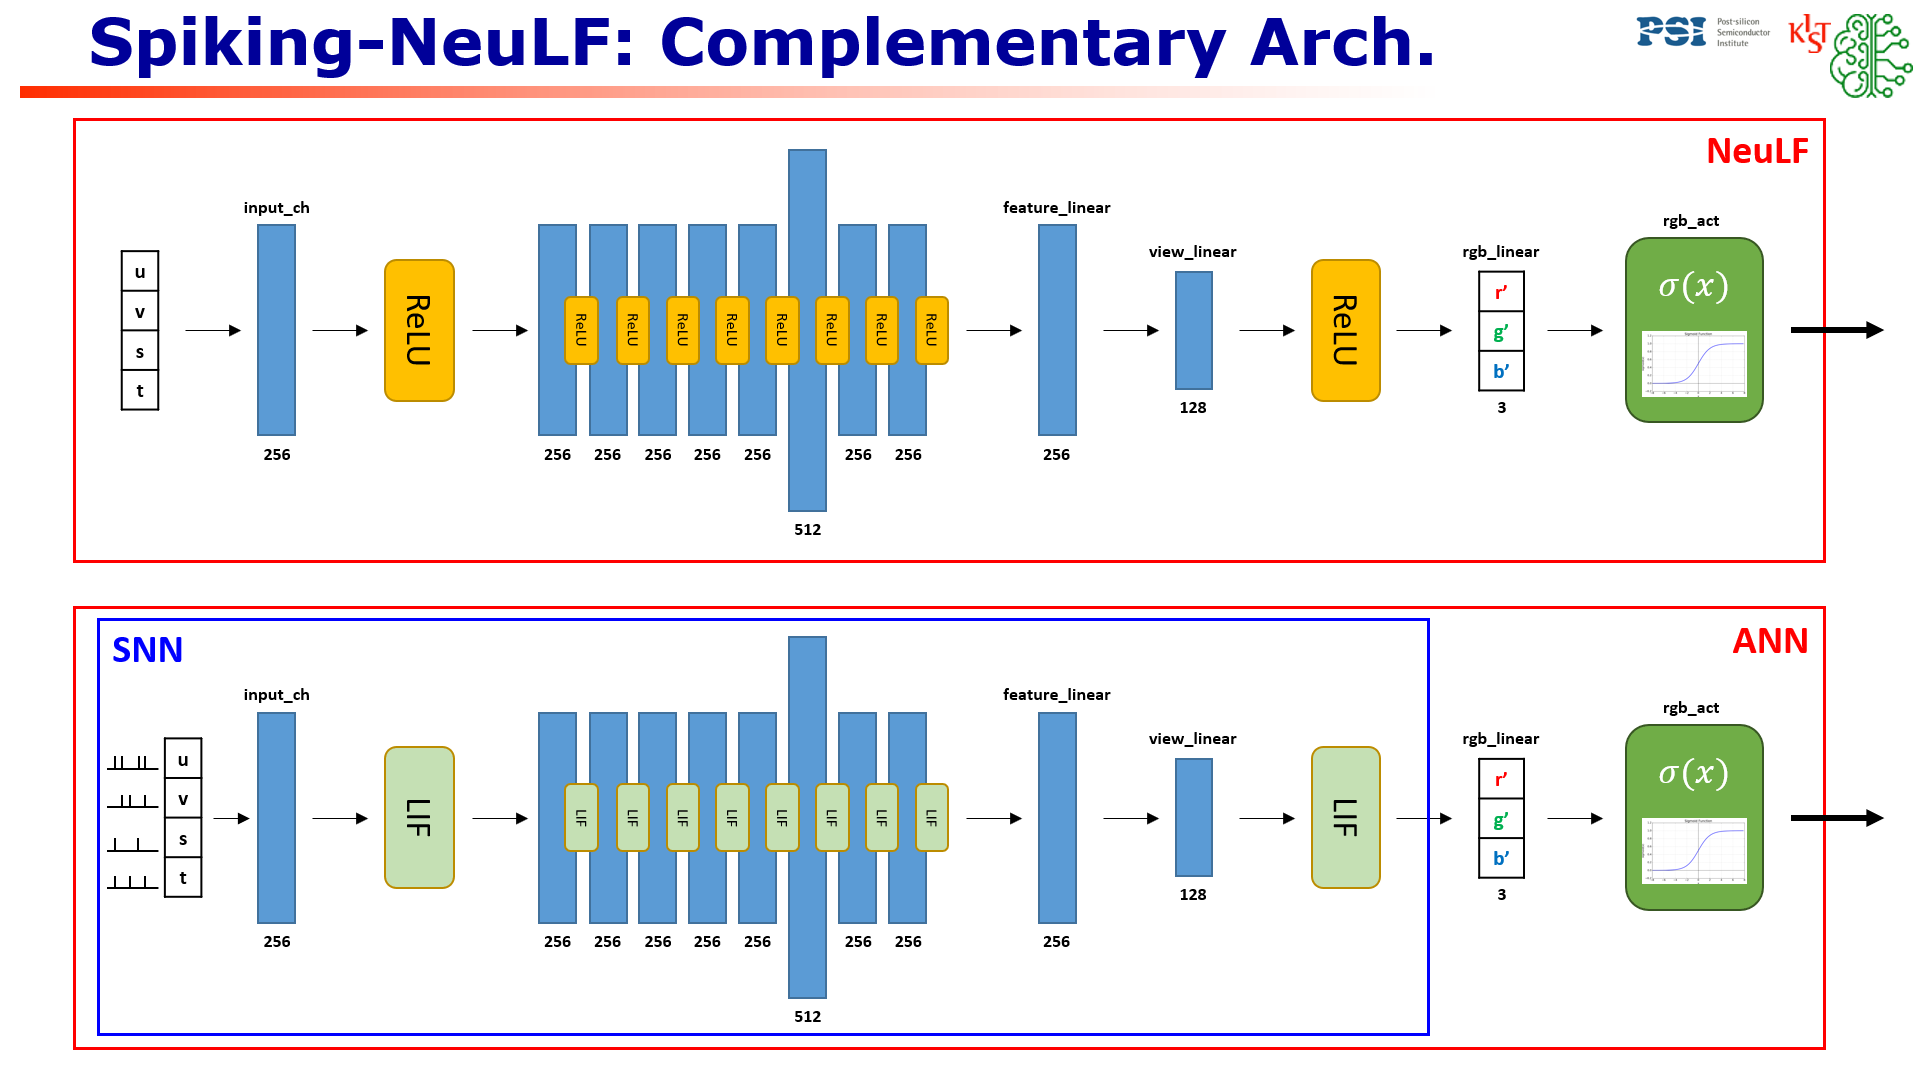
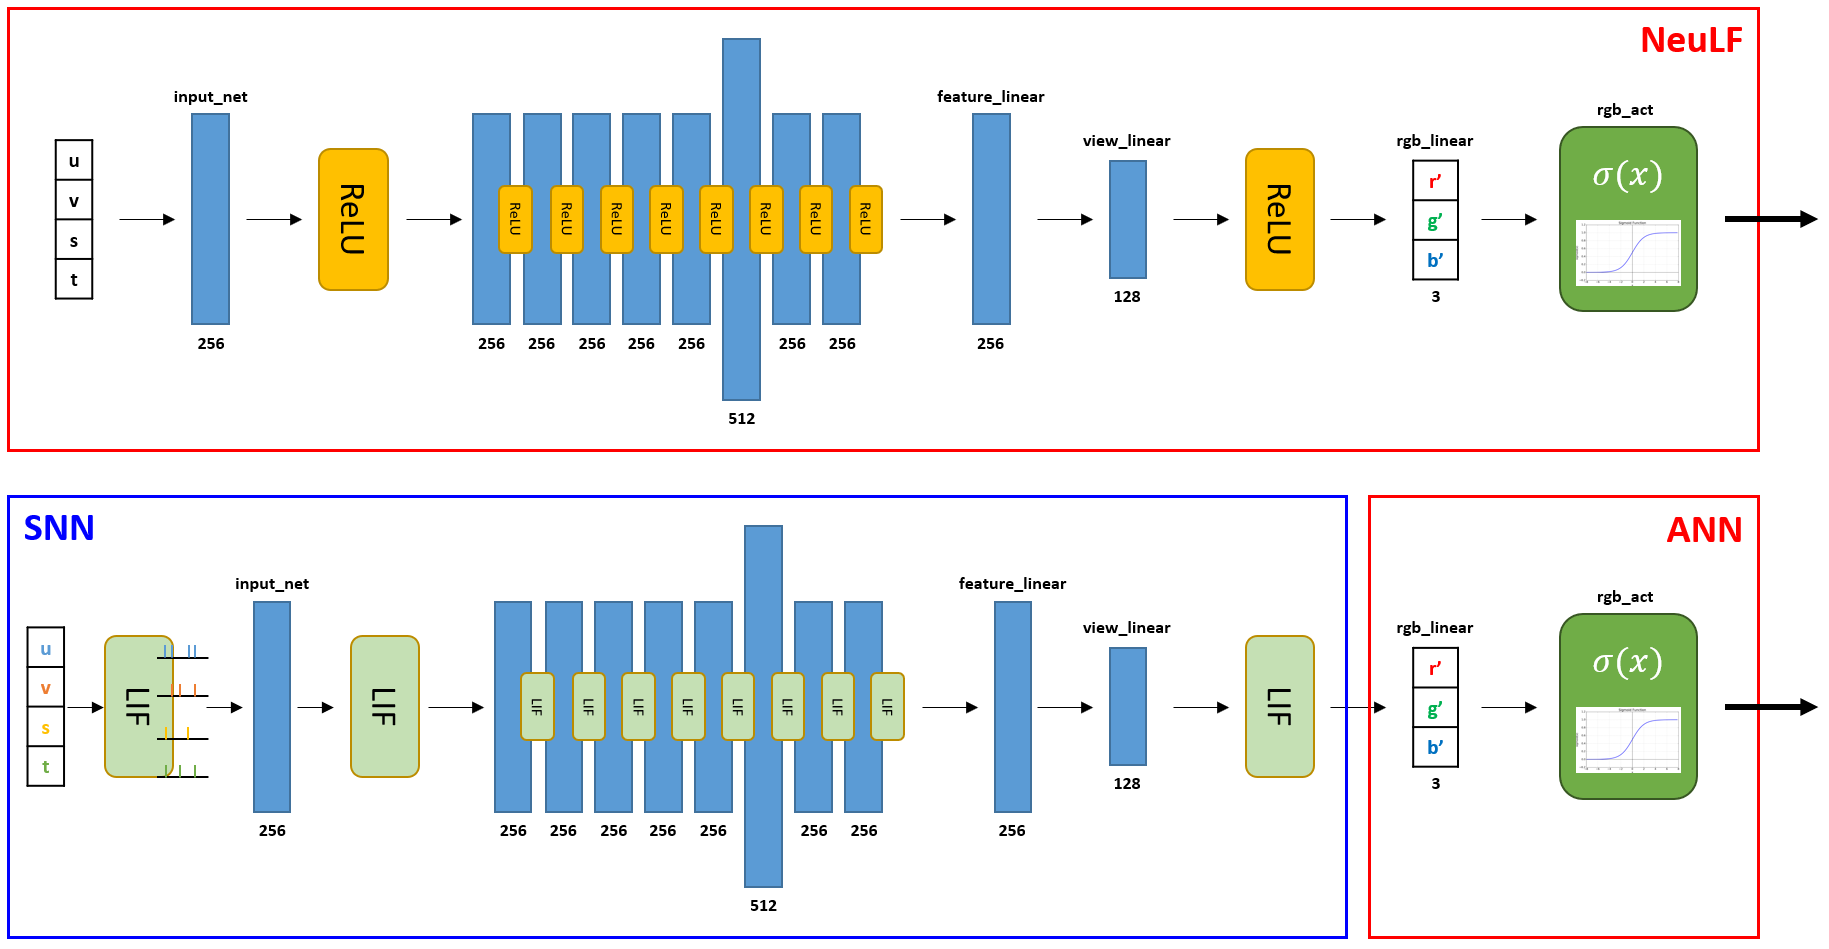
Arranging files

Changed region(s): [[0.0, 0.0, 0.9973, 1.0]]

diff --git a/README.md b/README.md
@@ -1,12 +1,13 @@
 # Spiking-NeuLF: A Low-Power Spiking Neural Light Field Model for Efficient View Synthesis
-Seonghan Kwon<sup>1,2</sup>   
-<sup>1</sup>Seoul National University of Science and Technology, <sup>2</sup>Korea Institute of Science and Technology
+Seonghan Kwon<sup>1</sup>, Hakyeong Lee<sup>1</sup>,   
+<sup>1</sup>Seoul National University of Science and Technology
 
 <p align="center">
   <img src='img/Spiking-NeuLF.png' width="750"/>
 </p>
 
-> [NeuLF](https://oppo-us-research.github.io/NeuLF-website/) (Neural 4D Light Field) is a method that achieves state-of-the-art results for synthesizing novel views of complex scenes. 
+> With the rise of the metaverse, the use of edge devices such as VR/AR devices is expanding. 
+In the case of [NeRF](https://arxiv.org/pdf/2003.08934) , which was previously studied, precise viewpoint synthesis is possible, but there is a disadvantage of many sampling and slowness based on volumetric rendering. In addition, since GPU usage and computation are large, there is a limitation that real-time processing in edge devices is difficult. On the other hand, [NeuLF](https://arxiv.org/pdf/2105.07112) has the advantage of low computation and fast inference because it predicts RGB values directly with Ray-plane intersection method and one MLP. These structural advantages can serve as a more suitable rendering solution in edge device environments where real-time is important. Nevertheless, NeuLF is advantageous in terms of speed, but still has limitations of ANN structure in terms of computational amount and power consumption. In this work, to address this issue, we propose a [Spiking-NeuLF](https://github.com/2322wednesday/Spiking-NeuLF) model and its possibilities that simultaneously achieve computational efficiency and energy savings by combining SNNs with low-power characteristics into NeuLF.
 
 # Installation
 ```
@@ -15,17 +16,34 @@ conda env create -n spikingNeuLF --file environment.yml
 ```
 
 # How to Run
-### Quick Demo our SpikingNeuLF(SNN+DNN)
-```
-python src/demo_snn_rgb.py --exp_name Ollie_d8_w256_0to1 --data_dir dataset/Ollie/ --time_steps 21100
-
-```
+### Quick Demo our SpikingNeuLF
+It takes about 1 hour 20 minutes based on RTX 3090. (Because of snntorch)
 ```
 python src/llffProcess.py --data_dir dataset/Ollie --factor 4
-python src/extract_weights.py 
-python src/demo_snn_rgb.py --exp_name Ollie_d8_w256_0to1 --data_dir dataset/Ollie/ --time_steps 21100
-
+python src/demo_snn_rgb.py --exp_name Ollie_d8_w256_0to1 --data_dir dataset/Ollie/ --time_steps 22000
 ```
+<p align="center">
+  <img src="./img/Spiking-NeuLF_results_img.png" alt="animated" width="480" height="270"/>
+</p>
+
+
+
+### Quick Train and Run our SpikingNeuLF
+If you want to proceed with both Training and Inference with our code, use the code below.
+```
+python src/llffProcess.py --data_dir dataset/Ollie --factor 4
+python src/train_spikingneulf.py --data_dir dataset/Ollie --exp_name Ollie_d8_w256
+
+# Split NeuLF weights into SNN, ANN model's weights
+python src/extract_weights.py 
+python src/demo_snn_rgb.py --exp_name Ollie_d8_w256_0to1 --data_dir dataset/Ollie/ --time_steps 22000
+```
+
+
+
+
+
+
 ### Quick Demo NeuLF(DNN)
 ```
 python src/llffProcess.py --data_dir dataset/Ollie --factor 4
